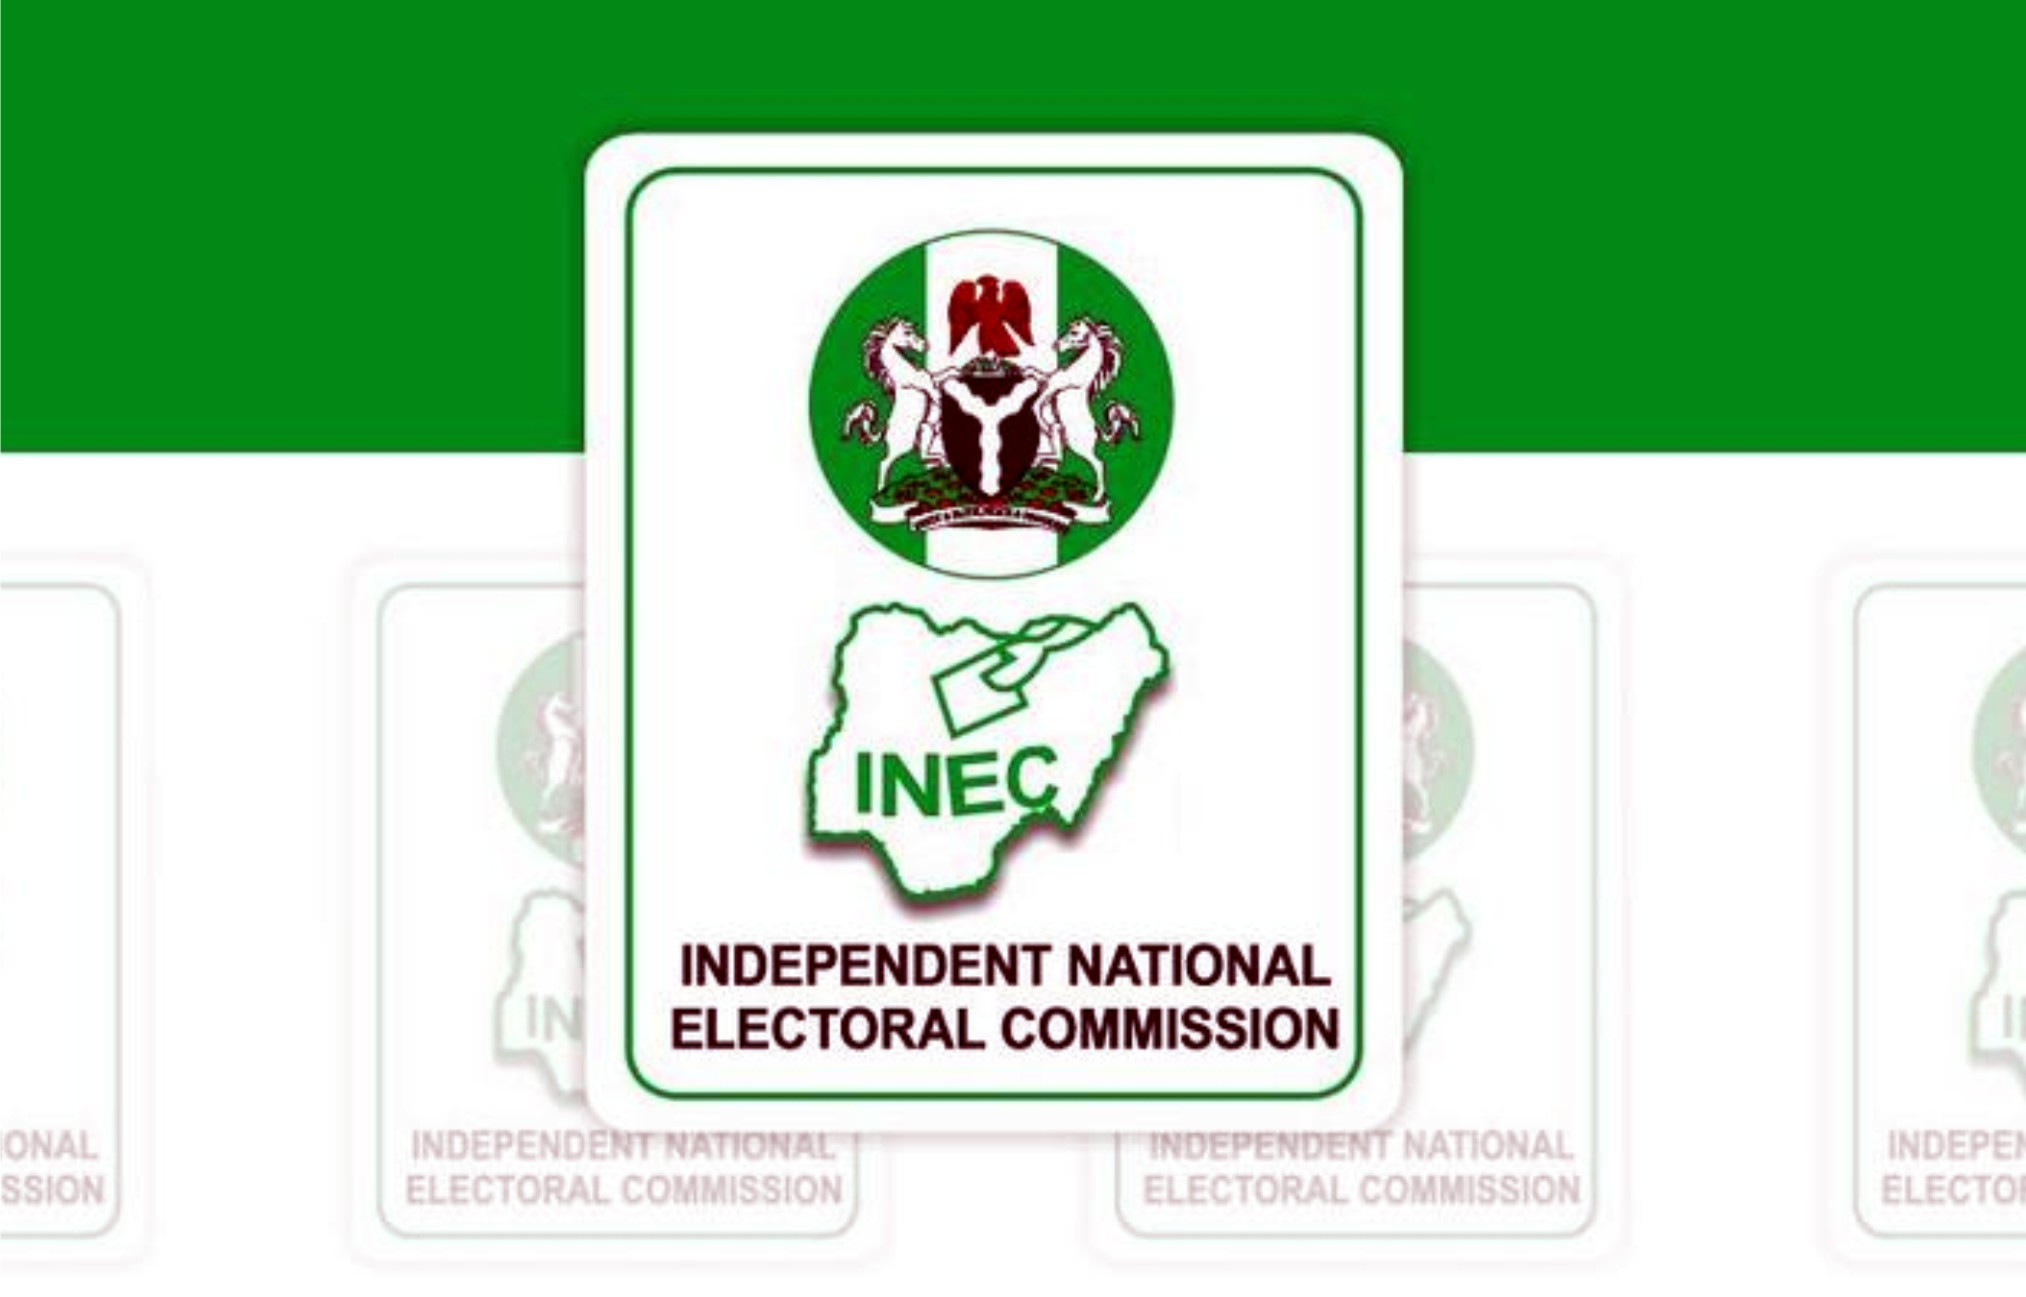
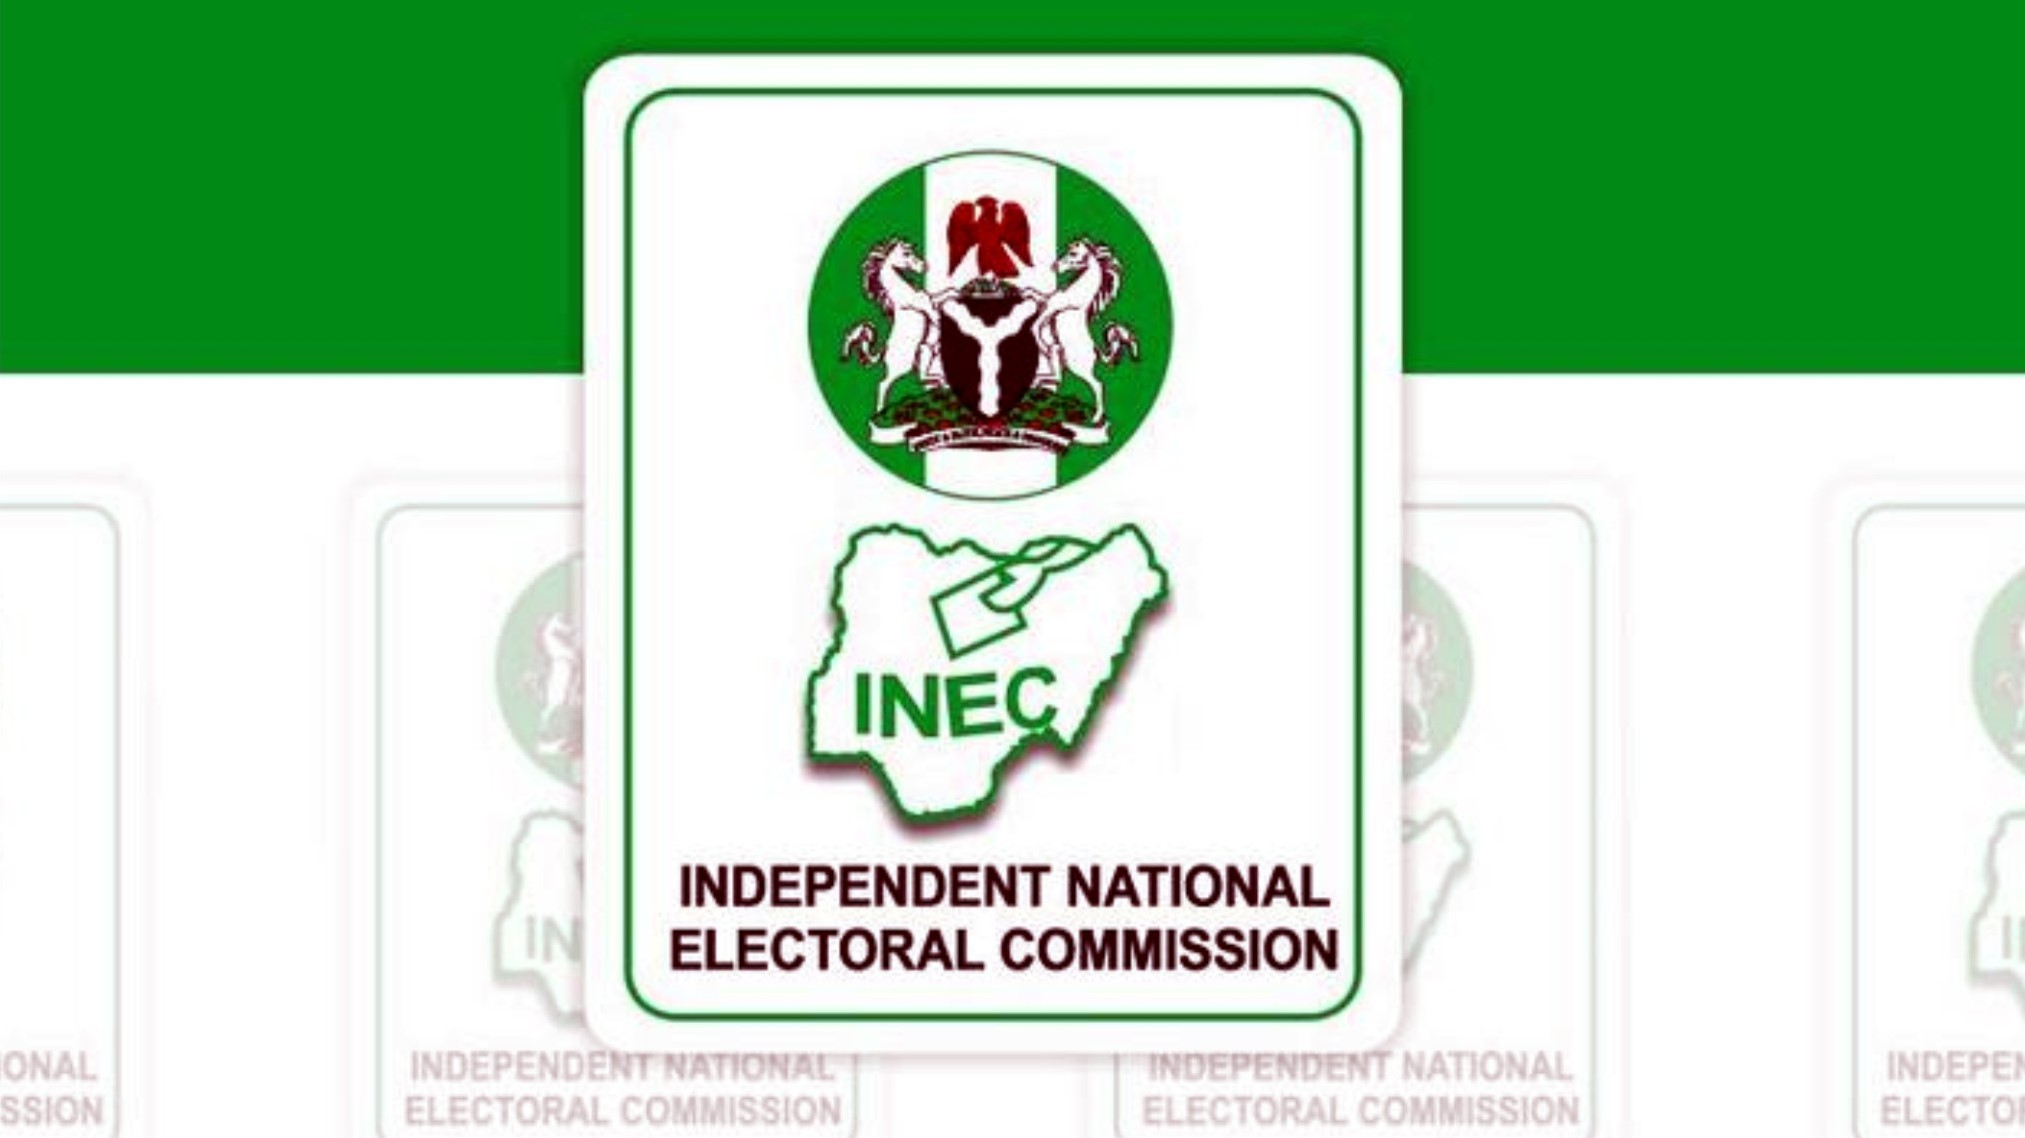
'new'

diff --git a/index.html b/index.html
@@ -140,7 +140,7 @@
     <section class="spacing-one">
         <div class="container">
             <div class="row">
-                <div class="col-md-6 whyUs-img">
+                <div class="col-md-6 whyUs-img text-center">
                     <img src="assets/job whyus.webp">
                 </div>
 
